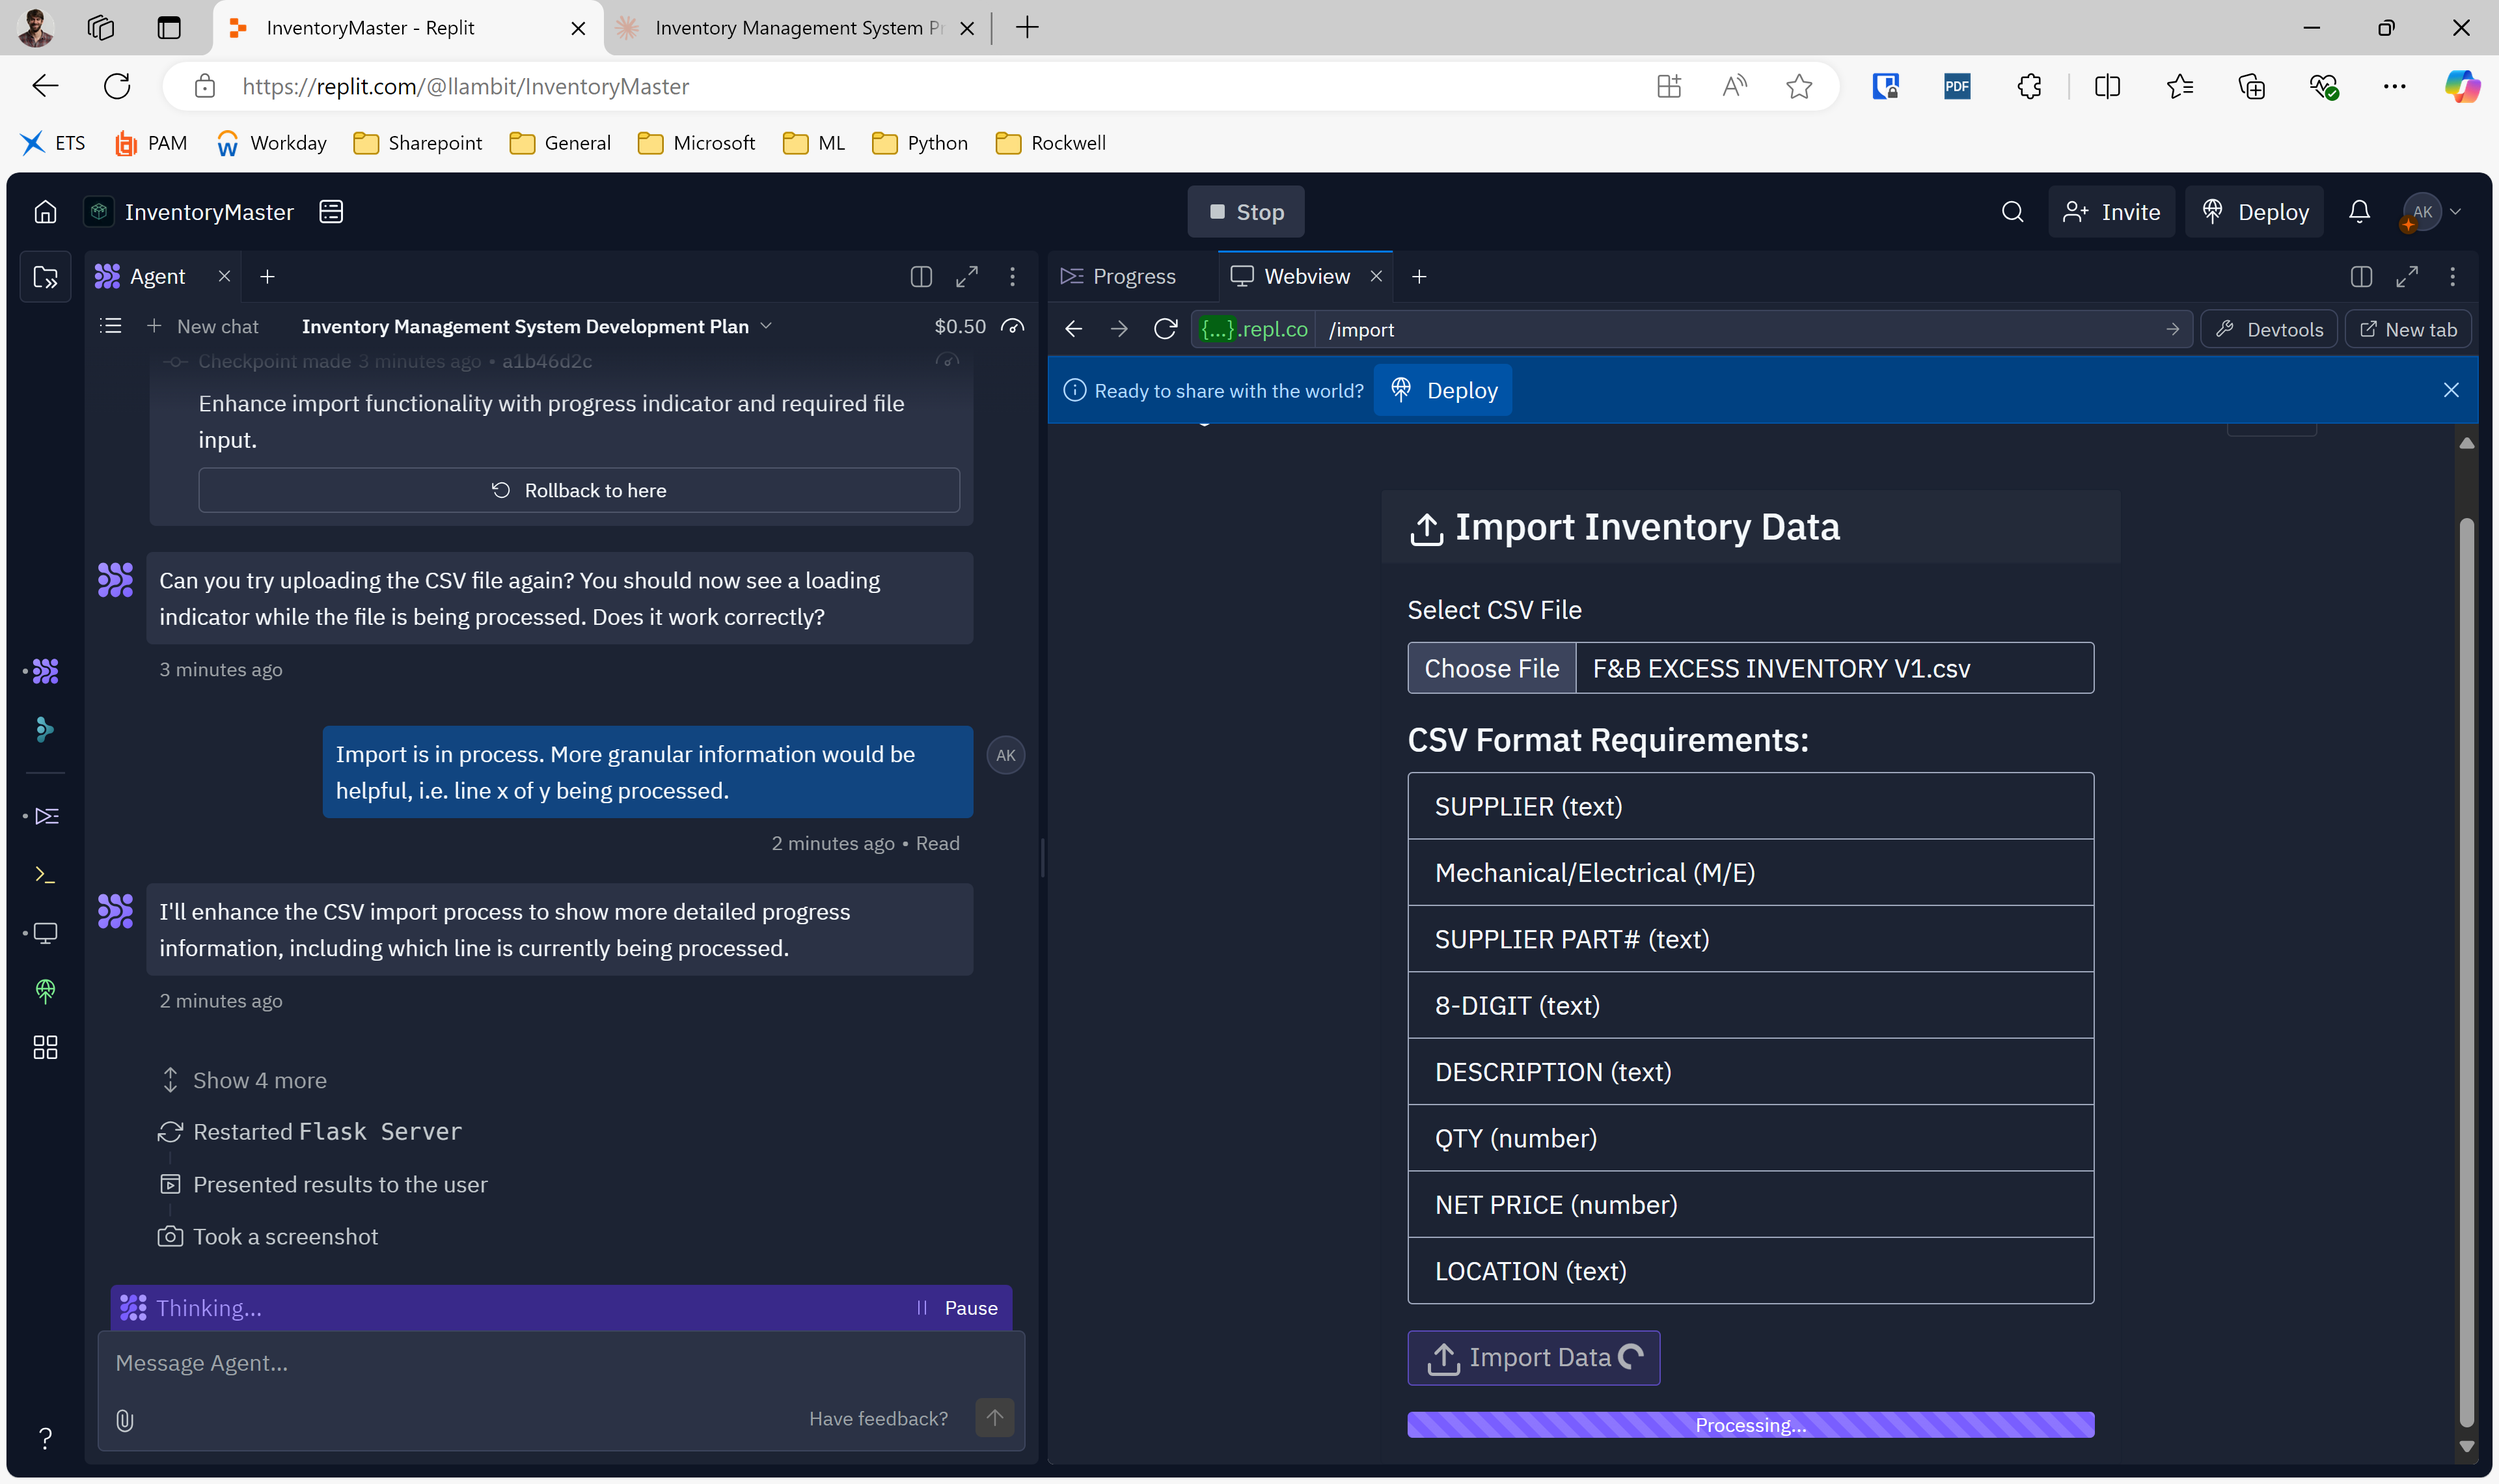
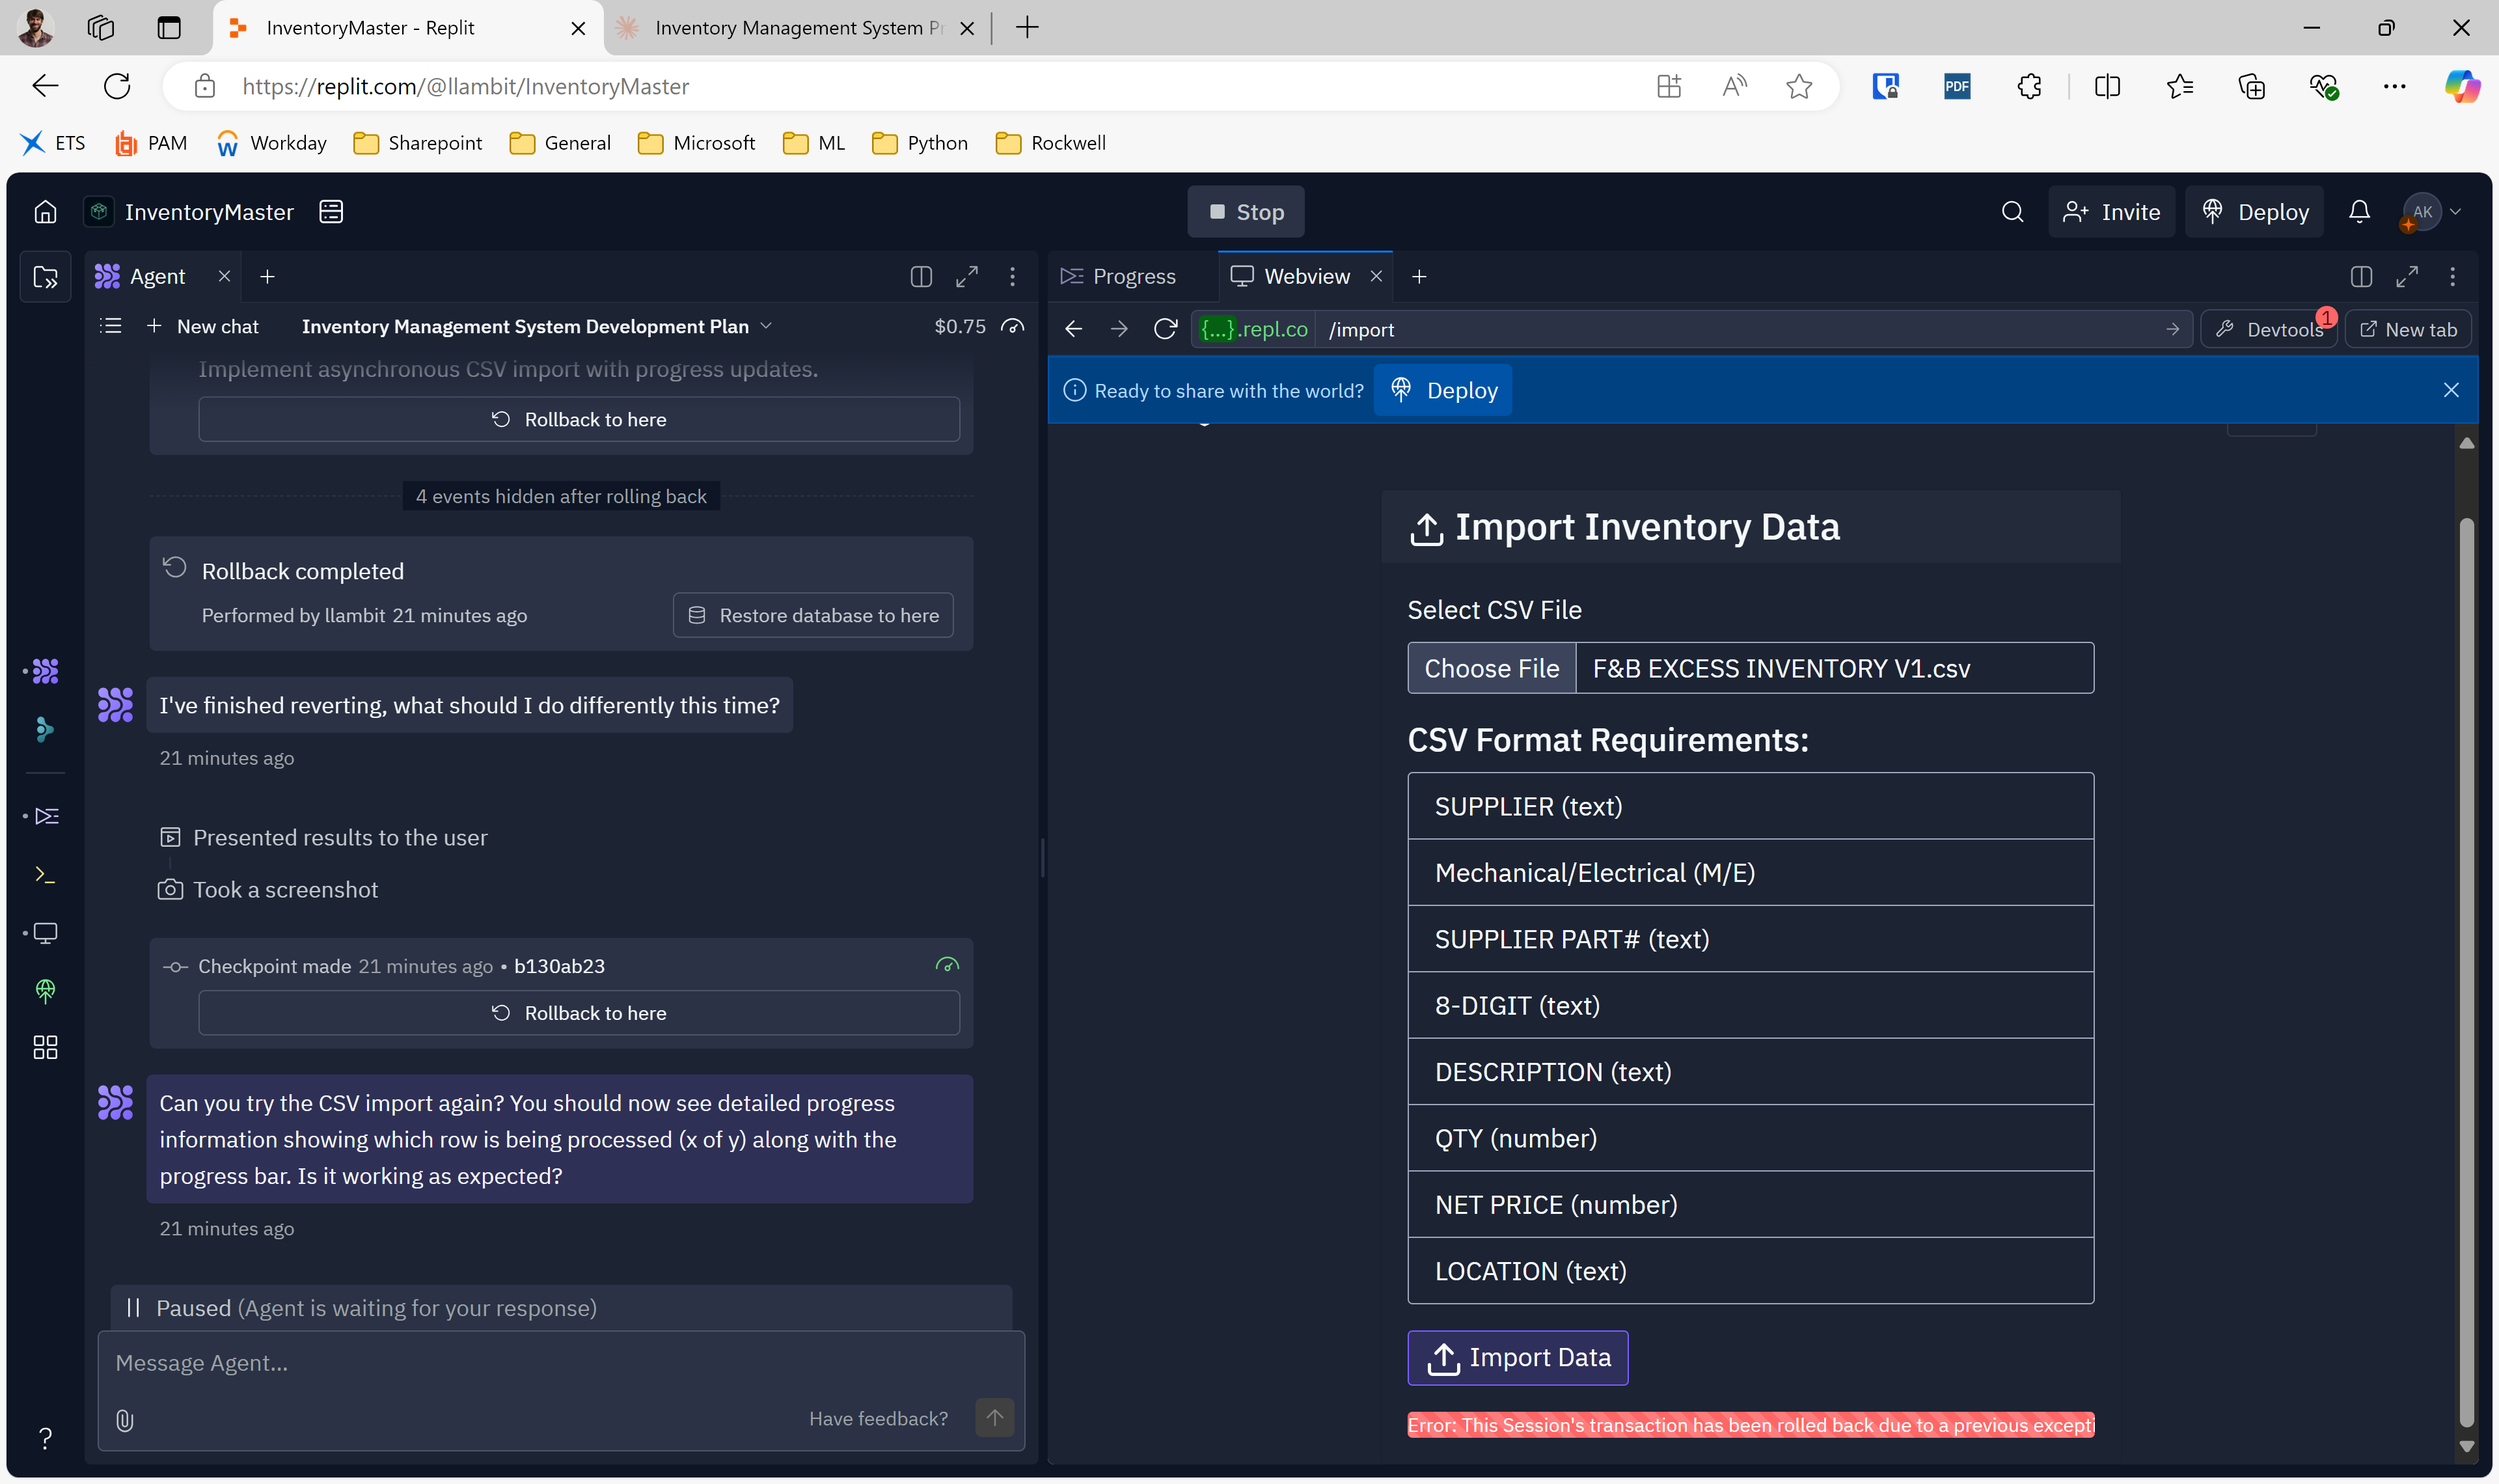
Agent query: Can you please try importing the CSV file again? The database has been updated to handle longer part numbers.
Increased size of ecolab_part_number field in Component model.

Screenshot: https://storage.googleapis.com/screenshot-production-us-central1/01e03720-7642-4910-ba78-20549a1c21e2/0029dd0f-b0c8-4217-be06-7a96303990d3.jpg

diff --git a/models.py b/models.py
@@ -27,7 +27,7 @@ class Component(db.Model):
     supplier_id = db.Column(db.Integer, db.ForeignKey('suppliers.supplier_id'))
     owner = db.Column(component_type, nullable=False)
     supplier_part_number = db.Column(db.String(100))
-    ecolab_part_number = db.Column(db.String(8))
+    ecolab_part_number = db.Column(db.String(20))
     description = db.Column(db.Text)
     current_quantity = db.Column(db.Integer, nullable=False, default=0)
     minimum_quantity = db.Column(db.Integer, default=0)
